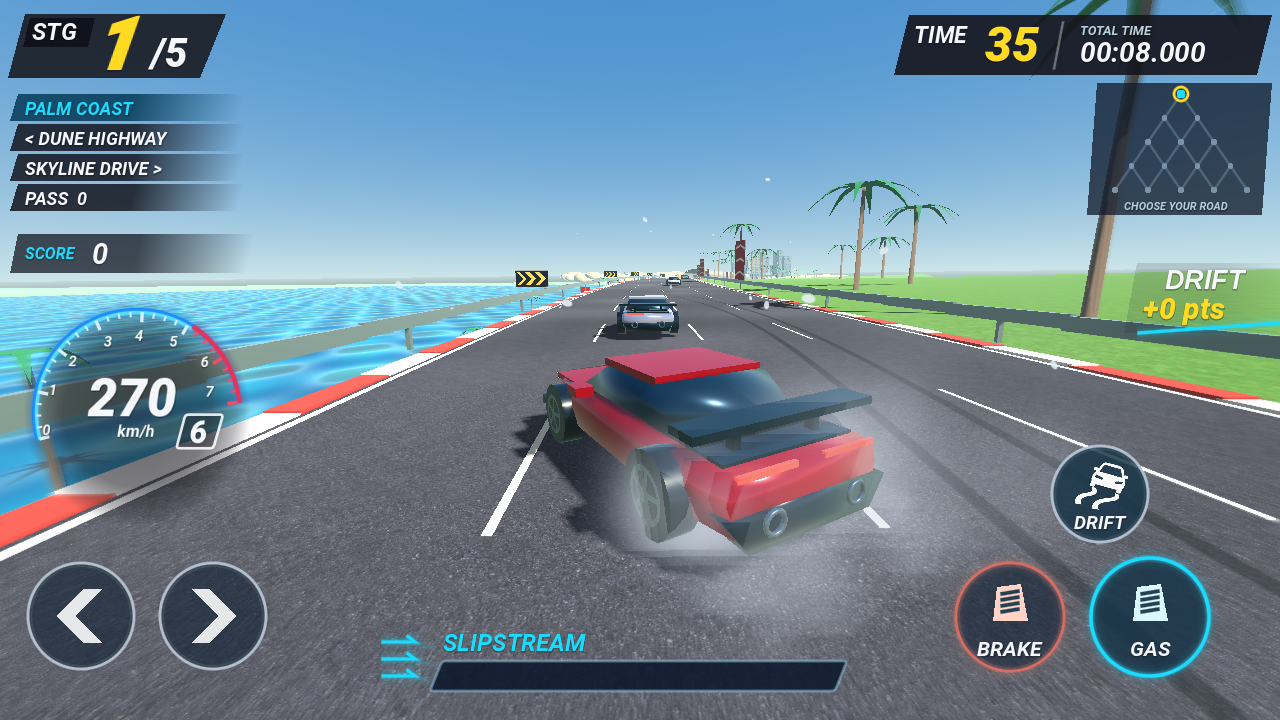
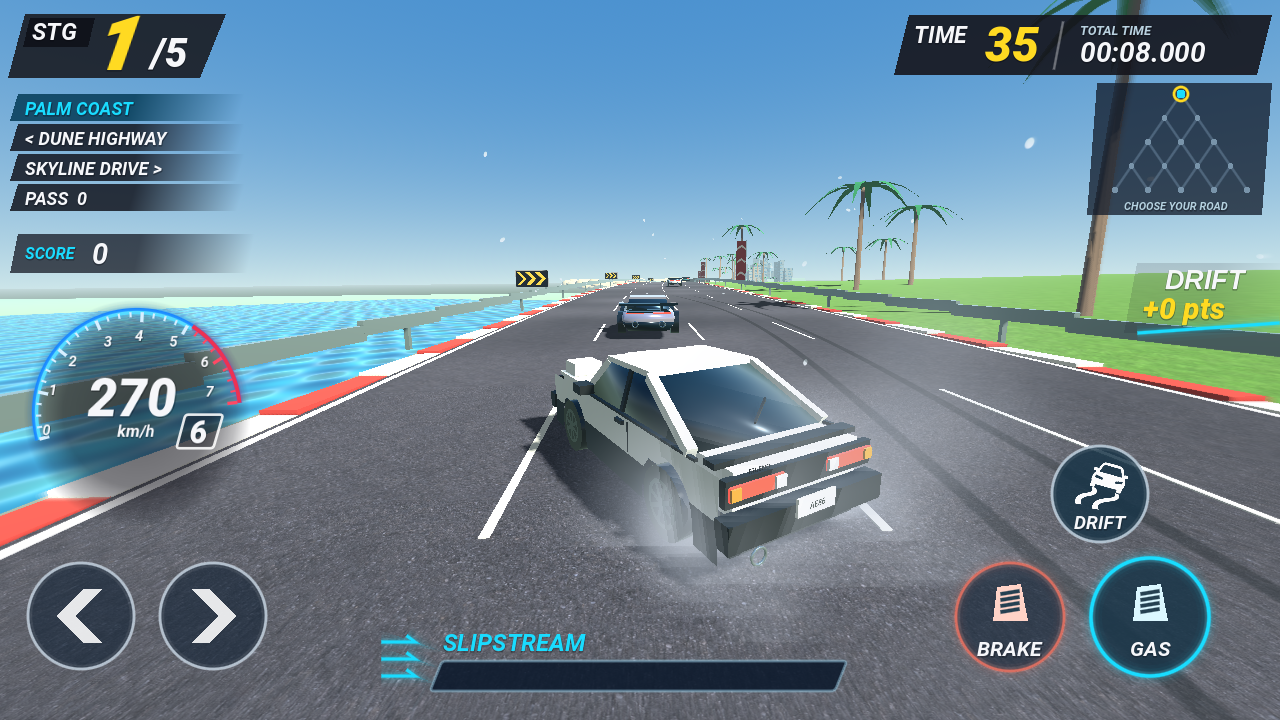
Replace player car with white AE86 Trueno hatchback and align tire effects

diff --git a/new/README.md b/new/README.md
@@ -4,7 +4,9 @@ OutRun 2006을 참고한 **3D 오픈 로드 아케이드 투어**입니다. 한 
 
 [웹에서 플레이](https://obmaz.github.io/initialsj/new/) · [구현과 검증](docs/TOUR.md) · [레퍼런스 자료](docs/OUTRUN_REFERENCE.md)
 
-![반투명 지붕 아래의 해안 도로](docs/tour/canopy.png)
+플레이어 차량은 흰색·검정 투톤의 **AE86 Trueno 3도어 해치백 스타일**입니다. 팝업 헤드라이트, 작은 리어 스포일러와 8스포크 휠을 직접 만든 3D 메시로 구현했습니다.
+
+![흰색 AE86의 실제 주행 시점](docs/ae86-rear.png)
 
 ## 조작
 
